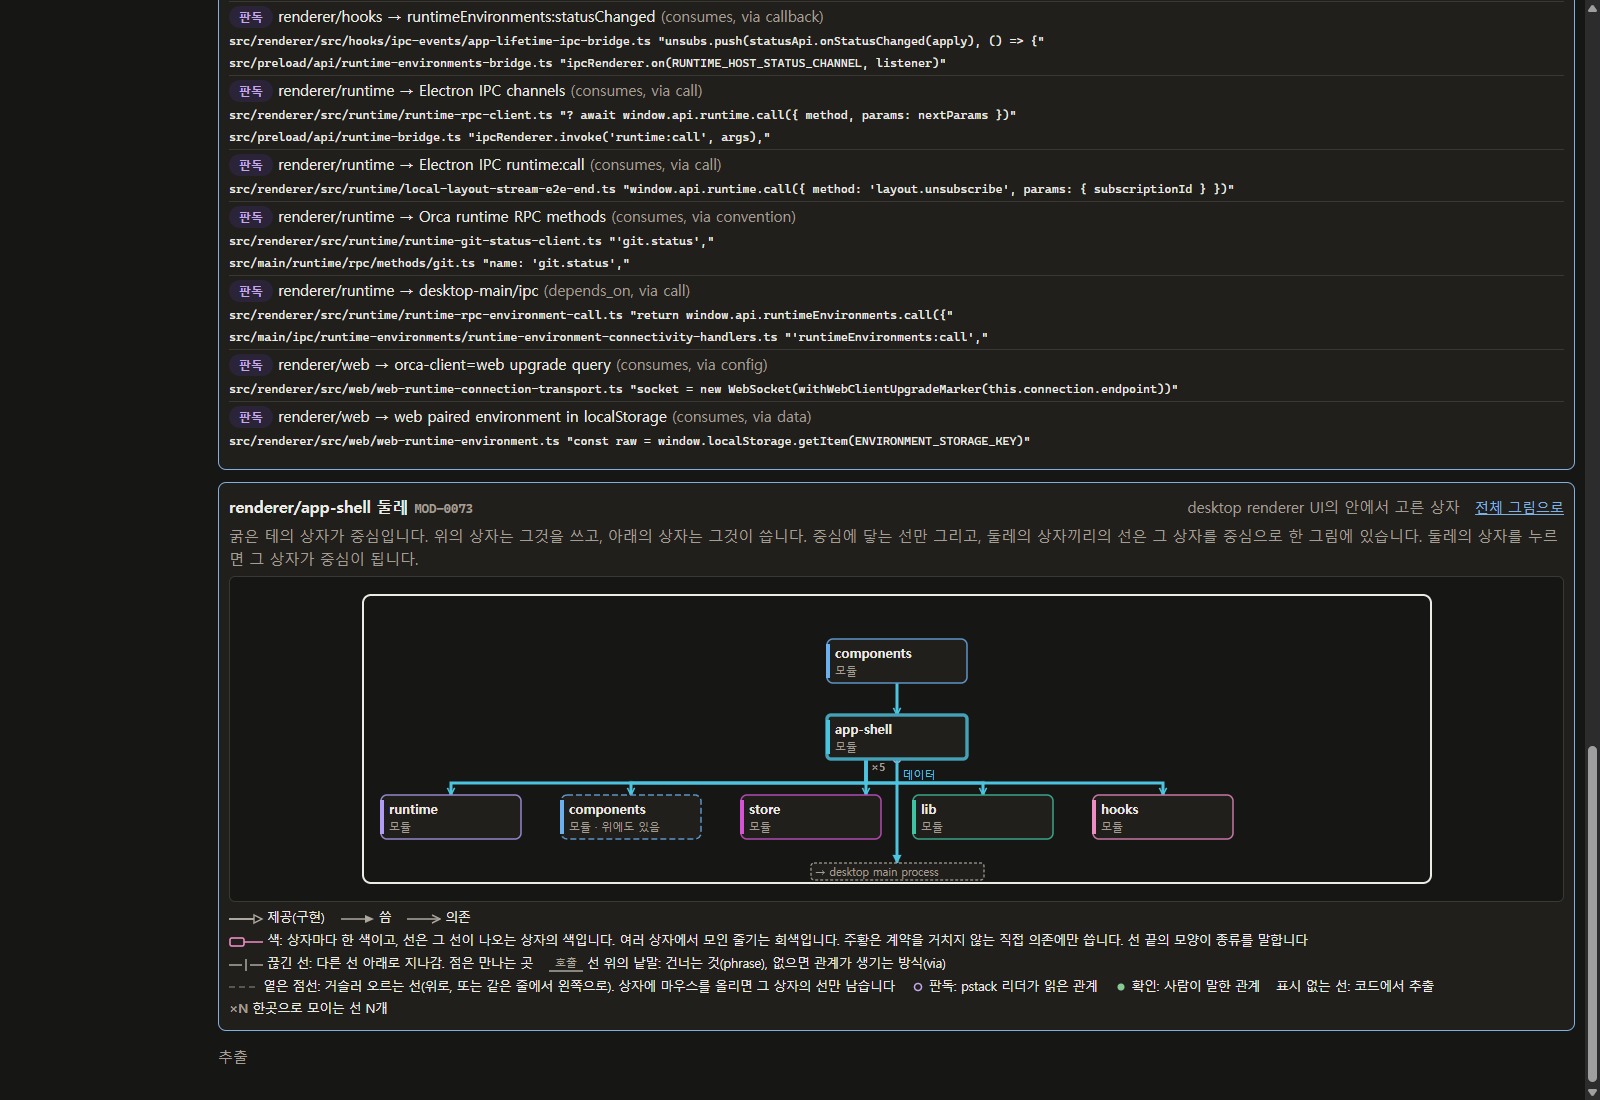
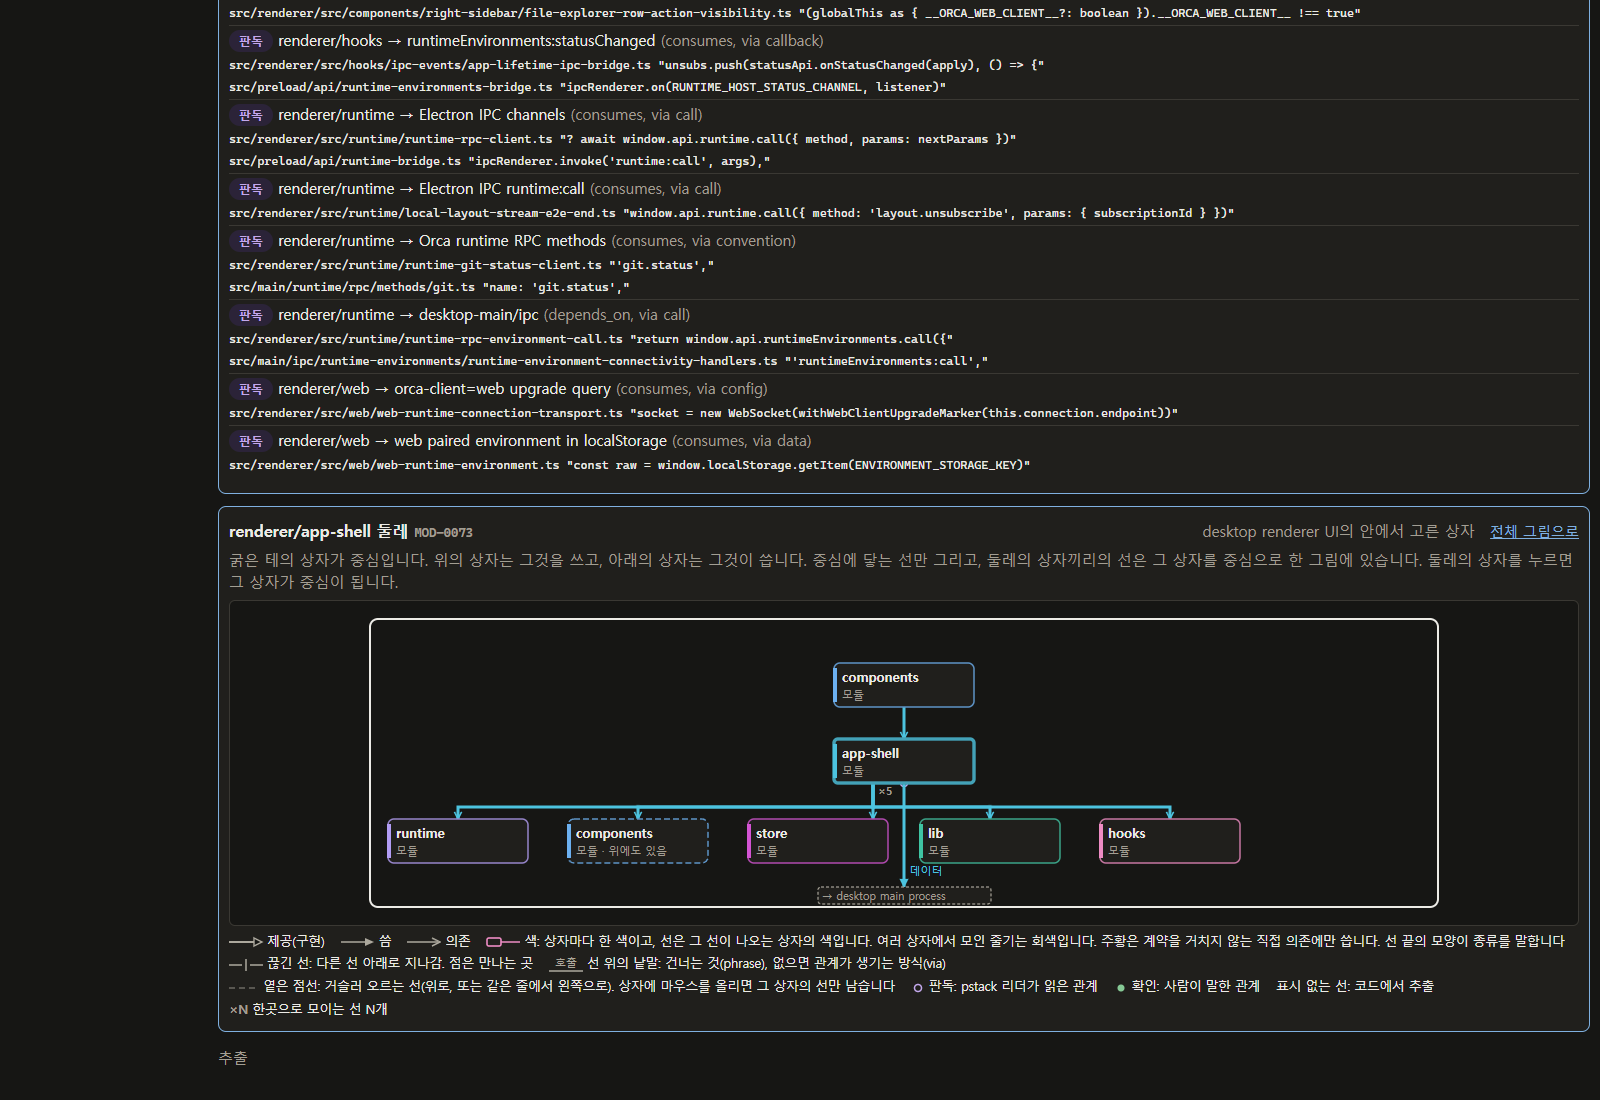
Keep labels off tracks only of their own colour, and test the fork's siblings
A label beside a drop kept off any crossing track whose wire shared a
source, but paint gives a wire of several sources neutral grey and a
warning kind the warning colour, so labels went to the tooltip by
tracks of another colour. Wires are kin now only when paint will give
them one colour; of 392 fixture labels one goes tooltip-only, a grey
word by a grey track.

TestAForkIsOneKindOnOneTrack covers a straight drop of another kind, a
branch onto a second track and a line onto a box's side. accept.py stops
with go's output when go test writes no tables, and exits 1 when a case
fails. The app-shell fork shots are retaken.

Claude-Session: https://claude.ai/code/session_01QdEar75XYejucR4LgSJDda

diff --git a/eval/lint/accept.py b/eval/lint/accept.py
@@ -13,7 +13,9 @@ Every case measures the traced geometry itself, never the lint's breaches,
 so a change to a lint criterion cannot move a case.
 
 It prints one row per case: case, source, view, measure, value, target and
-pass when the value is at or under the target. A case comes from a user
+pass when the value is at or under the target, and exits 1 when a
+case fails. When go test writes no tables, as when the build fails, it
+stops with go's output before measuring anything. A case comes from a user
 screenshot in D:/abbd-eval/exemplars (user-NN) or from the day's review
 (today); its view is a fixture view, by the name TestLintFixtures gives it.
 --record writes eval/lint/acceptance.tsv with the values as the recorded
@@ -253,12 +255,18 @@ CASES = [
 def run(out, hover_on):
     os.makedirs(out, exist_ok=True)
     pages = os.path.join(out, "pages")
-    env = dict(os.environ, ABBD_LINT_FIXTURES=os.path.join(out, "fix.tsv"), ABBD_ACCEPT_WAYS=os.path.join(out, "ways.tsv"),
-               ABBD_BLUEPRINTS=pages)
+    tables = [os.path.join(out, "fix.tsv"), os.path.join(out, "ways.tsv")]
+    for f in tables:
+        if os.path.exists(f):
+            os.remove(f)
+    env = dict(os.environ, ABBD_LINT_FIXTURES=tables[0], ABBD_ACCEPT_WAYS=tables[1], ABBD_BLUEPRINTS=pages)
     go = subprocess.run(["go", "test", "./internal/screen", "-count=1", "-run", "^(TestLintFixtures|TestAcceptWays|TestEveryRealDrawingIsLegible)$"],
                         cwd=ROOT, env=env, capture_output=True, text=True)
+    tail = (go.stdout + go.stderr)[-2000:]
+    if not all(os.path.exists(f) for f in tables):
+        sys.exit(f"go test wrote no tables, so nothing was measured (exit {go.returncode}):\n{tail}")
     if go.returncode:
-        print(f"go test failed (tables still read):\n{go.stdout[-2000:]}", file=sys.stderr)
+        print(f"go test failed (tables still read):\n{tail}", file=sys.stderr)
     if hover_on:
         shoot = os.path.join(ROOT, "eval", "skill-polish", "tools", "shoot.py")
         repos = [f"{r}={os.path.join(pages, r)}" for r in sorted(os.listdir(pages))]
@@ -290,6 +298,7 @@ def main():
         with open(os.path.join(HERE, "acceptance.tsv"), "w", newline="", encoding="utf8") as f:
             f.write("case\tsource\tview\tmeasure\trecorded\tcommit\ttarget\tnote\n")
             f.writelines("\t".join(r[:5] + [at] + r[5:]) + "\n" for r in rows)
+    sys.exit(1 if "fail" in results else 0)
 
 
 if __name__ == "__main__":

diff --git a/internal/screen/lint_rules_test.go b/internal/screen/lint_rules_test.go
@@ -2,6 +2,7 @@ package screen
 
 import (
 	"fmt"
+	"slices"
 	"strings"
 	"testing"
 
@@ -231,5 +232,29 @@ func TestAKnotOnAnotherBoxsTrackStillBends(t *testing.T) {
 	got = lookAt(t, boxes, fork, [][2]string{{"A", "B"}, {"A", "C"}, {"A", "D"}, {"E", "B"}}).bendsAllowed()
 	if len(got) != 1 || got[0].Items[1].ID != "B" || got[0].Allowed != 0 {
 		t.Fatalf("%+v; want the branch into B, on E's track, to break B1", got)
+	}
+}
+
+// A stem is a fork only when every line down it is of one kind, turns onto
+// one track, and runs straight or as a branch: a straight drop of another
+// kind, a branch onto a second track, or a line that ends on a box's side
+// leaves the bent line into B breaking B1.
+func TestAForkIsOneKindOnOneTrack(t *testing.T) {
+	boxes := []string{"A 100 0 160 20", "B 60 80 80 20", "C 200 80 80 20", "D 320 80 80 20"}
+	rels := [][2]string{{"A", "B"}, {"A", "C"}, {"A", "D"}}
+	toB := `<path class="w contract" d="M230 20 V50 H100 V80"/>`
+	for name, rest := range map[string]string{
+		"a straight drop of another kind": `<path class="w depends_on" d="M230 20 V80"/><path class="w contract" d="M230 20 V50 H360 V80"/>`,
+		"a branch onto a second track":    `<path class="w contract" d="M230 20 V80"/><path class="w contract" d="M230 20 V64 H360 V80"/>`,
+		"a line onto a box's side":        `<path class="w contract" d="M230 20 V80"/><path class="w contract" d="M230 20 V70 H320"/>`,
+	} {
+		bs := boxes
+		if strings.Contains(name, "side") {
+			bs = []string{"A 100 0 160 20", "B 60 80 80 20", "C 200 80 80 20", "D 320 60 80 40"}
+		}
+		got := lookAt(t, bs, toB+rest, rels).bendsAllowed()
+		if !slices.ContainsFunc(got, func(b Breach) bool { return b.Items[1].ID == "B" && b.Allowed == 0 }) {
+			t.Errorf("with %s: %+v; want the line into B to break B1", name, got)
+		}
 	}
 }

diff --git a/internal/screen/marks.go b/internal/screen/marks.go
@@ -530,9 +530,23 @@ func (d *Drawing) labels(segs []seg, heads []box, t tree) {
 		n := d.Wires[i].Net
 		return i == j || n != 0 && whole[n] && d.Wires[j].Net == n
 	}
-	kin := func(i, j int) bool {
-		return slices.ContainsFunc(d.Wires[i].srcs, func(s string) bool { return slices.Contains(d.Wires[j].srcs, s) })
+	// ink is the colour paint will give a wire, as far as labels need it:
+	// the warning colour, its one source's, or neutral for several.
+	ink := func(w Wire) string {
+		if warns(w.Kind) {
+			return "warn"
+		}
+		var one model.ID
+		for _, n := range w.srcs {
+			if b := base(model.ID(n)); one == "" {
+				one = b
+			} else if b != one {
+				return ""
+			}
+		}
+		return string(one)
 	}
+	kin := func(i, j int) bool { return ink(d.Wires[i]) == ink(d.Wires[j]) }
 	done := map[int]bool{}
 	for i := range d.Wires {
 		s, n := words[i], d.Wires[i].Net
@@ -578,9 +592,8 @@ func (d *Drawing) labels(segs []seg, heads []box, t tree) {
 				// A line's stroke reaches 1.3px off its centre at most. Another
 				// line parallel to g keeps more than twice the label's offset
 				// from it, so the label reads as g's and not the other's. So
-				// does a flat line that leaves one of g's boxes: it wears g's
-				// colour, and a word beside a drop right over such a track
-				// reads as the track's.
+				// does a flat line of g's colour: a word beside a drop right
+				// over such a track reads as the track's.
 				room := labelRoom + 1
 				if (o.flat() == g.flat() || o.flat() && kin(i, o.wire)) && !mate(i, o.wire) {
 					room = 2*labelOff + 2
